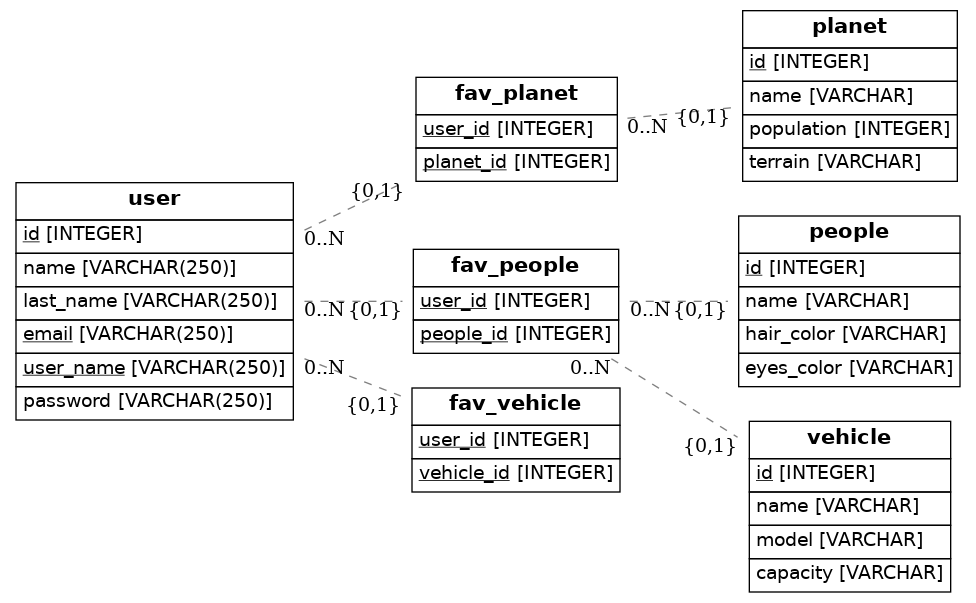
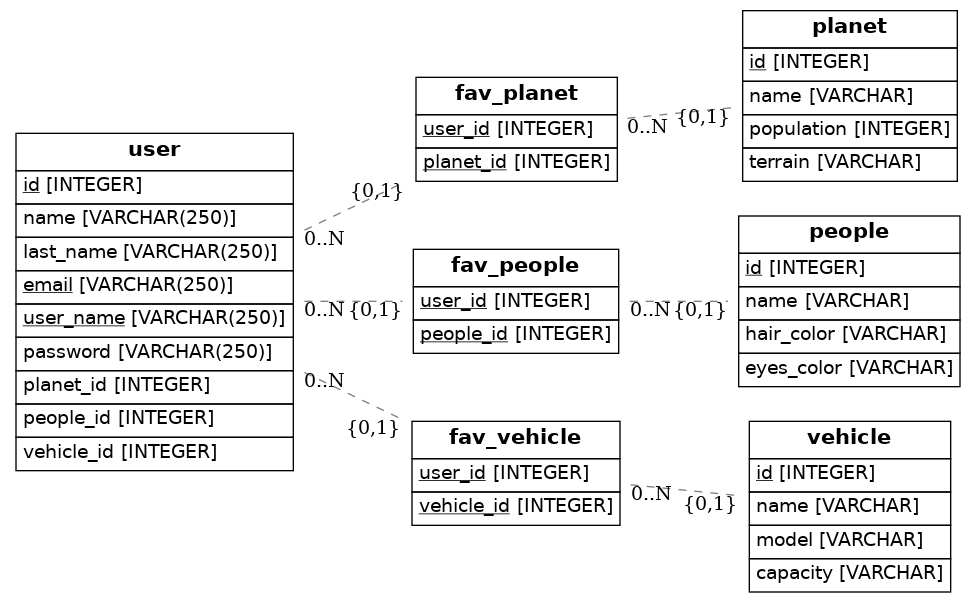
arreglo

Changed region(s): [[0.0, 0.209, 0.3689, 0.806], [0.3689, 0.597, 0.7377, 0.8955], [0.707, 0.7164, 0.7377, 0.7463]]

diff --git a/src/models.py b/src/models.py
@@ -8,89 +8,6 @@ from eralchemy import render_er
 
 Base = declarative_base()
 
-#Ejemplo clases:
-
-# class Person(Base):
-#     __tablename__ = 'person'
-#     # Here we define columns for the table person
-#     # Notice that each column is also a normal Python instance attribute.
-#     id = Column(Integer, primary_key=True)
-#     name = Column(String(250), nullable=False)
-
-# class Address(Base):
-#     __tablename__ = 'address'
-#     # Here we define columns for the table address.
-#     # Notice that each column is also a normal Python instance attribute.
-#     id = Column(Integer, primary_key=True)
-#     street_name = Column(String(250))
-#     street_number = Column(String(250))
-#     post_code = Column(String(250), nullable=False)
-#     person_id = Column(Integer, ForeignKey('person.id'))
-#     person = relationship(Person)
-
-#     def to_dict(self):
-#         return {}
-
-
-#testeo 1:
-
-
-# class User(Base):
-#     __tablename__ = 'user'
-#     # Here we define columns for the table person
-#     # Notice that each column is also a normal Python instance attribute.
-#     id = Column(Integer, primary_key=True)
-#     name = Column(String(250), nullable=False)
-
-
-# class Planets(Base):
-#     __tablename__ = 'planets'
-#     # Here we define columns for the table address.
-#     # Notice that each column is also a normal Python instance attribute.
-#     id = Column(Integer, primary_key=True)
-#     population = Column(String(250))
-#     terrain = Column(String(250))
-#     name = Column(String(250), nullable=False)
-#     planet_id = Column(Integer, ForeignKey('user.id'))
-#     user = relationship(User)
-
-
-# class People(Base):
-#     __tablename__ = 'people'
-#     # Here we define columns for the table address.
-#     # Notice that each column is also a normal Python instance attribute.
-#     id = Column(Integer, primary_key=True)
-#     hair_color = Column(String(250))
-#     eye_color = Column(String(250))
-#     name = Column(String(250), nullable=False)
-#     people_id = Column(Integer, ForeignKey('user.id'))
-#     user = relationship(User)
-
-# class Vehicle(Base):
-#     __tablename__ = 'vehicle'
-#     # Here we define columns for the table address.
-#     # Notice that each column is also a normal Python instance attribute.
-#     id = Column(Integer, primary_key=True)
-#     model = Column(String(250))
-#     capacity = Column(String(250))
-#     name = Column(String(250), nullable=False)
-#     vehicle_id = Column(Integer, ForeignKey('user.id'))
-#     user = relationship(User)
-
-# class Favorites(Base):
-#     __tablename__ = 'favorites'
-#     # Here we define columns for the table person
-#     # Notice that each column is also a normal Python instance attribute.
-#     id = Column(Integer, primary_key=True)
-#     name = Column(String(250), nullable=False)
-
-#     def to_dict(self):
-#         return {}
-
-
-
-#Testeo 2:
-
 class User(Base):
     __tablename__ = 'user'
     id = Column(Integer, primary_key=True)
@@ -99,6 +16,12 @@ class User(Base):
     email = Column(String(250), primary_key=True)
     user_name = Column(String(250), primary_key=True)
     password = Column(String(250), nullable=False)
+    planet_id = Column(Integer, ForeignKey('planet_id'))
+    fav_planet = relationship('Fav_Planet')
+    people_id  = Column(Integer, ForeignKey('people_id '))
+    fav_people = relationship('Fav_People')
+    vehicle_id = Column(Integer, ForeignKey('vehicle_id'))
+    fav_vehicle = relationship('Fav_Vehicle')
 
 
 class Fav_Planet(Base):
@@ -137,7 +60,7 @@ class Fav_Vehicle(Base):
 
 class Vehicle(Base):
     __tablename__ = 'vehicle'
-    id = Column(Integer, ForeignKey('fav_people.id'), primary_key=True)
+    id = Column(Integer, ForeignKey('fav_vehicle.id'), primary_key=True)
     name = Column(String, nullable=False)
     model = Column(String, nullable=False)
     capacity = Column(String, nullable=False)
